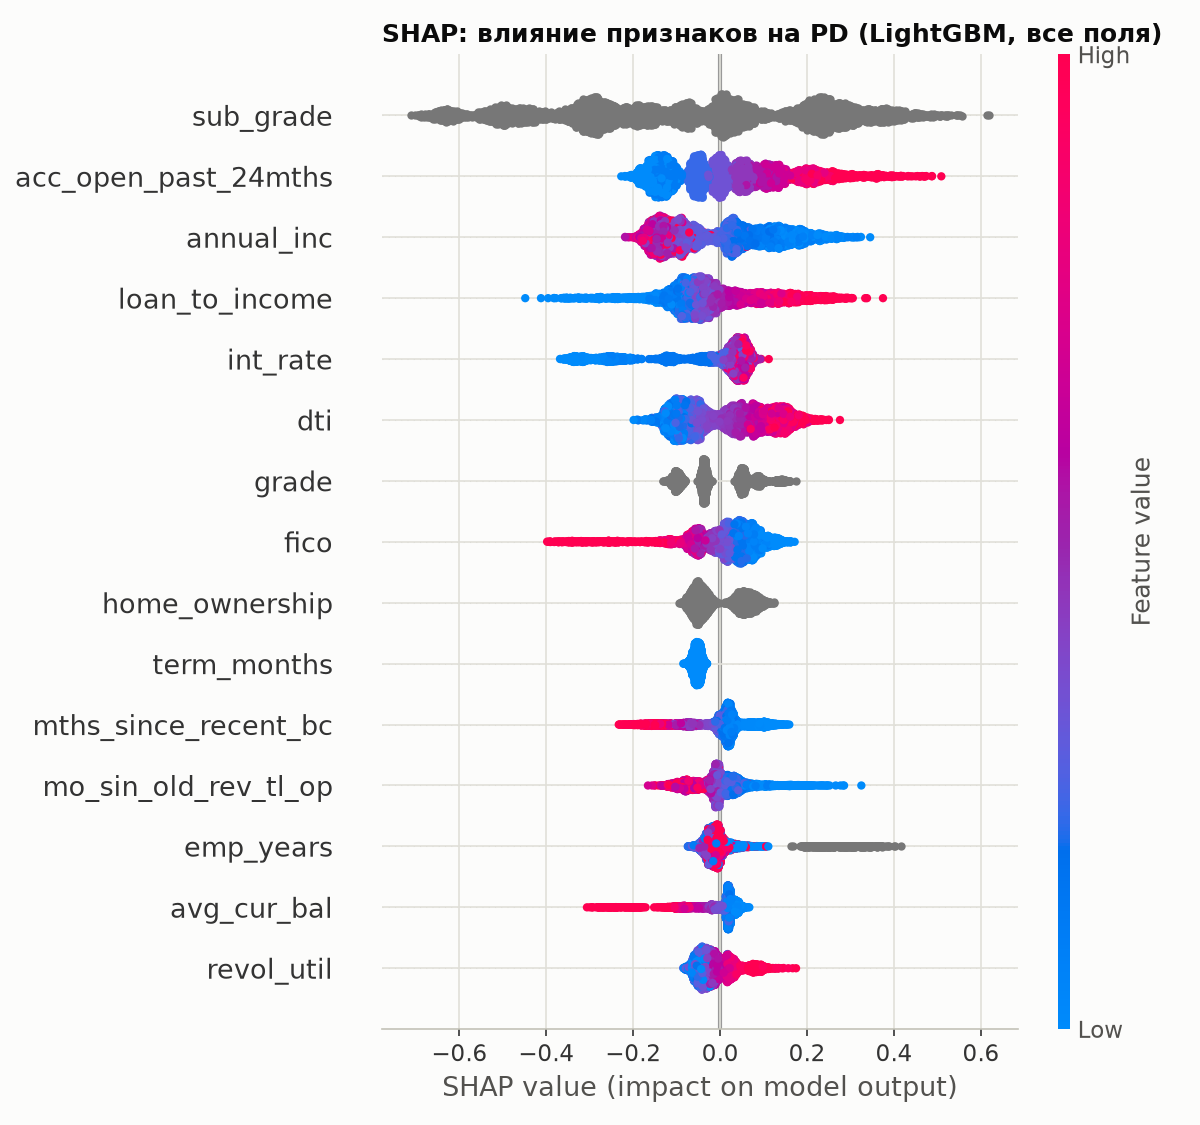
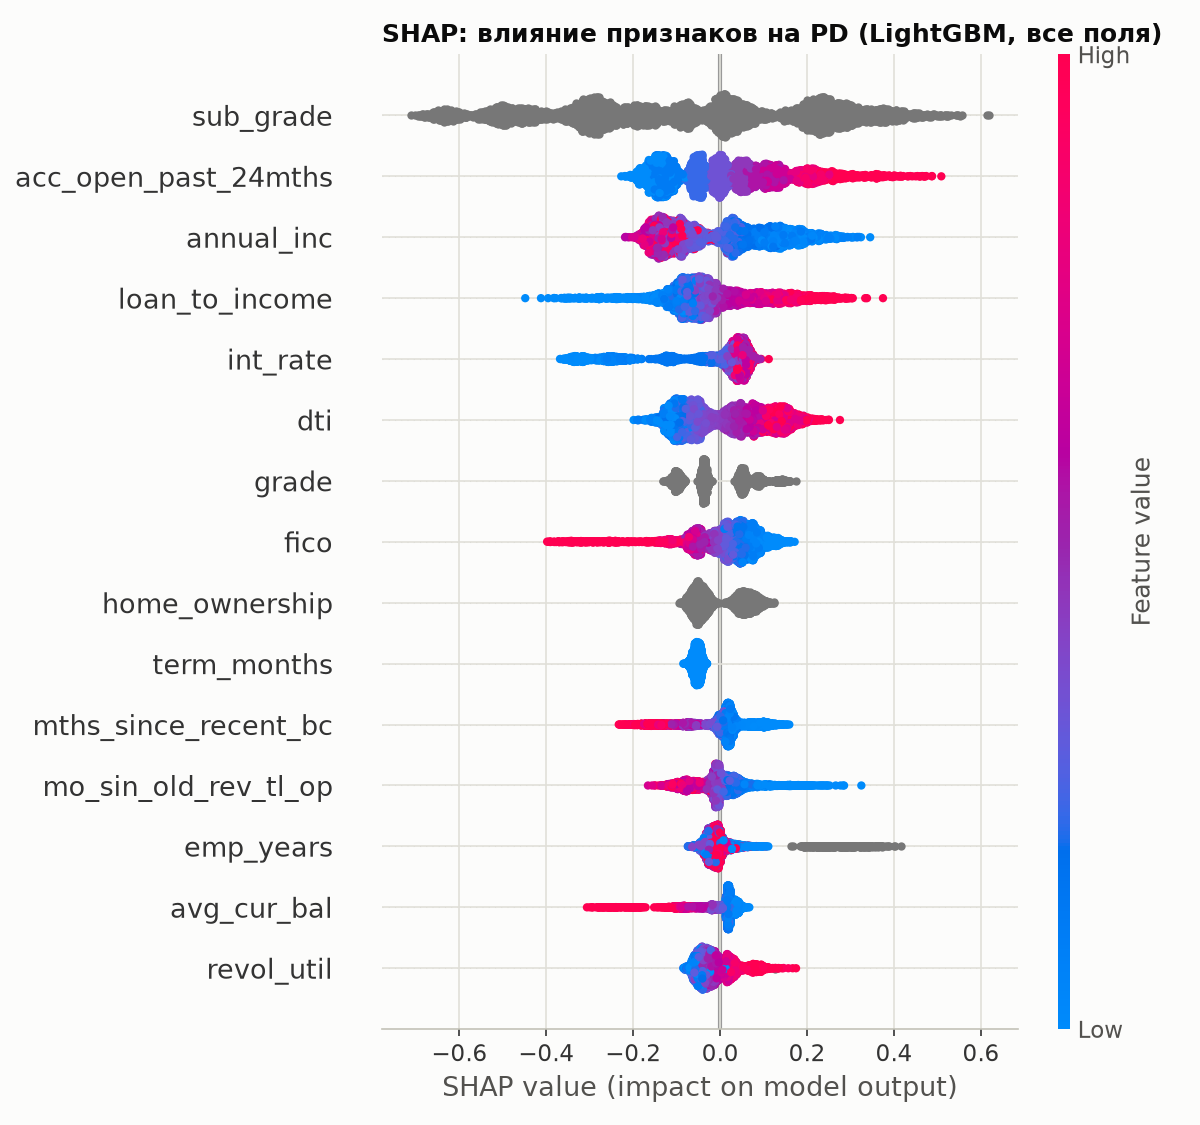
Keep only the metrics the project uses
Gini, KS and Brier are dropped from the code and the results: Gini is
2*AUC-1 and the other two duplicate what ROC-AUC and ECE already show.
The kept set is ROC-AUC (model choice), PR-AUC (rare class), ECE (can
the PD figure be trusted), precision, recall, F1 and accuracy against
the "everyone repays" constant. Models and their ROC-AUC are unchanged.

diff --git a/src/models.py b/src/models.py
@@ -26,12 +26,10 @@ from sklearn.linear_model import LogisticRegression
 from sklearn.metrics import (
     accuracy_score,
     average_precision_score,
-    brier_score_loss,
     f1_score,
     precision_score,
     recall_score,
     roc_auc_score,
-    roc_curve,
 )
 from sklearn.model_selection import GridSearchCV, TimeSeriesSplit
 from sklearn.neural_network import MLPClassifier
@@ -234,12 +232,6 @@ def apply_platt(p: np.ndarray, a: float, b: float) -> np.ndarray:
     return expit(a * logit(np.clip(p, 1e-6, 1 - 1e-6)) + b)
 
 
-def ks_stat(y: pd.Series, p: np.ndarray) -> float:
-    """Статистика Колмогорова–Смирнова: max(TPR - FPR) — стандартная метрика скоринга."""
-    fpr, tpr, _ = roc_curve(y, p)
-    return float(np.max(tpr - fpr))
-
-
 def best_f1_threshold(y: pd.Series, p: np.ndarray) -> float:
     """Порог вероятности от 0.05 до 0.60 с шагом 0.01, при котором F1 максимальна."""
     grid = np.linspace(0.05, 0.6, 56)
@@ -256,16 +248,19 @@ def expected_calibration_error(y: pd.Series, p: np.ndarray, bins: int = 10) -> f
 
 
 def evaluate(y: pd.Series, p: np.ndarray, threshold: float) -> dict:
-    """Все метрики качества одной модели на test.
+    """Метрики качества одной модели на test.
 
-    ROC-AUC, Gini, KS, PR-AUC, Brier и ECE оценивают сами вероятности и от порога не зависят.
-    Accuracy, precision, recall и F1 считаются после порога: заём с PD >= threshold считается дефолтом.
-    accuracy_all_repay — доля погашенных займов, то есть accuracy модели «все вернут» без единого найденного дефолта.
+    Без порога (оценивают сами вероятности):
+      roc_auc — насколько хорошо модель упорядочивает заёмщиков по риску; по ней выбирается модель;
+      pr_auc  — качество поиска редкого класса (дефолтов); у угадывания равна доле дефолтов;
+      ece     — можно ли верить самой цифре PD: средний разрыв между прогнозом и фактом.
+    С порогом (заём с PD >= threshold считается дефолтом, то есть получает отказ):
+      precision — доля настоящих дефолтов среди отказов; recall — доля пойманных дефолтов; f1 — их баланс;
+      accuracy  — доля верных решений; accuracy_all_repay — accuracy модели «все вернут» для сравнения.
     """
     pred = p >= threshold
-    auc = roc_auc_score(y, p)
-    return {"roc_auc": auc, "gini": 2 * auc - 1, "pr_auc": average_precision_score(y, p),
-            "ks": ks_stat(y, p), "brier": brier_score_loss(y, p), "ece": expected_calibration_error(y, p),
+    return {"roc_auc": roc_auc_score(y, p), "pr_auc": average_precision_score(y, p),
+            "ece": expected_calibration_error(y, p),
             "threshold": threshold, "accuracy": accuracy_score(y, pred),
             "accuracy_all_repay": float(1 - np.mean(y)), "precision": precision_score(y, pred, zero_division=0),
             "recall": recall_score(y, pred), "f1": f1_score(y, pred)}
@@ -305,7 +300,7 @@ def fit_one(spec: ModelSpec, best: dict, windows: dict) -> dict:
     # Она замеряется в отдельных процессах в src/benchmark.py (пункт меню 8).
     row = {"model": spec.name, "valid_auc": valid_auc, "probe_test_auc": probe_test_auc,
            **evaluate(y_test, p, threshold),
-           "brier_raw": brier_score_loss(y_test, p_raw), "ece_raw": expected_calibration_error(y_test, p_raw),
+           "ece_raw": expected_calibration_error(y_test, p_raw),
            "mean_pd": float(p.mean()), "actual_default_rate": float(y_test.mean()),
            "fit_seconds": fit_cost.seconds,
            "predict_ms_per_1000": 1e6 * predict_cost.seconds / len(test), "model_mb": path.stat().st_size / 2**20}
@@ -366,7 +361,7 @@ def train_and_compare(model_df: pd.DataFrame, best: dict) -> tuple:
         rows.append(res["row"])
         fitted[spec.name], preds[spec.name], preds_raw[spec.name] = res["model"], res["p"], res["p_raw"]
         registry[spec.name] = res["registry"]
-        print(f"  {spec.name:<36} ROC-AUC={res['row']['roc_auc']:.4f}  KS={res['row']['ks']:.3f}  "
+        print(f"  {spec.name:<36} ROC-AUC={res['row']['roc_auc']:.4f}  "
               f"fit={res['row']['fit_seconds']:.1f}c")
     metrics = pd.DataFrame(rows).round(4)
     metrics.to_csv(C.REPORTS / "model_metrics.csv", index=False)

diff --git a/tests/test_models.py b/tests/test_models.py
@@ -18,7 +18,6 @@ from src.models import (
     evaluate,
     expected_calibration_error,
     fit_platt,
-    ks_stat,
     make_input_row,
     model_specs,
     predict_pd,
@@ -37,13 +36,6 @@ APPLICATION = {
 
 
 @pytest.mark.unit
-def test_ks_perfect_and_random():
-    y = np.array([0, 0, 1, 1])
-    assert ks_stat(y, np.array([0.1, 0.2, 0.8, 0.9])) == pytest.approx(1.0)
-    assert ks_stat(y, np.array([0.5, 0.5, 0.5, 0.5])) == pytest.approx(0.0)
-
-
-@pytest.mark.unit
 def test_threshold_metrics_by_hand():
     """4 займа, 2 дефолта. Порог 0.5: один дефолт пойман, один пропущен, одна ложная тревога."""
     y = pd.Series([1, 1, 0, 0])
@@ -53,6 +45,7 @@ def test_threshold_metrics_by_hand():
     assert m["precision"] == pytest.approx(0.5) and m["recall"] == pytest.approx(0.5)
     assert m["accuracy_all_repay"] == pytest.approx(0.5)
     assert m["roc_auc"] == pytest.approx(0.75)
+    assert set(m) >= {"pr_auc", "ece", "f1"} and not set(m) & {"gini", "ks", "brier"}
 
 
 @pytest.mark.unit

diff --git a/main.py b/main.py
@@ -94,7 +94,8 @@ def step_models() -> None:
     best = tune(fit[C.FEATURES], fit[C.TARGET].astype(int))
     save_json(best, C.REPORTS / "tuning.json")
     metrics, fitted, preds, preds_raw, test = train_and_compare(model_df, best)
-    print(metrics[["model", "valid_auc", "roc_auc", "gini", "ks", "pr_auc", "brier", "f1"]].to_string(index=False))
+    columns = ["model", "valid_auc", "roc_auc", "pr_auc", "ece", "precision", "recall", "f1"]
+    print(metrics[columns].to_string(index=False))
     result = run_explain(fitted, preds, preds_raw, test, metrics)
     print("\nОшибки по грейдам:\n", result["errors"].to_string(index=False))
     print("\nЧувствительность к цензурированию:\n", censoring_sensitivity(df, best).to_string(index=False))
